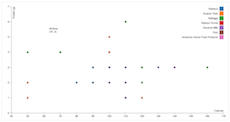
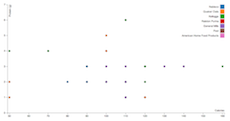
cleaning up index, fixing tooltip, making reusable, updating thumbnail

diff --git a/index.html b/index.html
@@ -3,6 +3,8 @@
 <meta charset="utf-8">
 
 <!-- Example based on http://bl.ocks.org/mbostock/3887118 -->
+<!-- Tooltip example from http://www.d3noob.org/2013/01/adding-tooltips-to-d3js-graph.html -->
+
 <style>
 body {
   font: 11px sans-serif;
@@ -19,49 +21,69 @@ body {
   stroke: #000;
 }
 
-#tooltip {
-      position: absolute;
-      left: 200px;
-      top: 94px;
-    }
+.tooltip {
+  position: absolute;
+  width: 200px;
+  height: 28px;
+  pointer-events: none;
+}
 </style>
 <body>
-<div id ="tooltip"></div>
 <script src="http://d3js.org/d3.v3.min.js"></script>
 
 <script>
-
 var margin = {top: 20, right: 20, bottom: 30, left: 40},
     width = 960 - margin.left - margin.right,
     height = 500 - margin.top - margin.bottom;
 
-var x = d3.scale.linear()
-    .range([0, width]);
+/* 
+ * value accessor - returns the value to encode for a given data object.
+ * scale - maps value to a visual display encoding, such as a pixel position.
+ * map function - maps from data value to display value
+ * axis - sets up axis
+ */ 
 
-var y = d3.scale.linear()
-    .range([height, 0]);
+// setup x 
+var xValue = function(d) { return d.Calories;}, // data -> value
+    xScale = d3.scale.linear().range([0, width]), // value -> display
+    xMap = function(d) { return xScale(xValue(d));}, // data -> display
+    xAxis = d3.svg.axis().scale(xScale).orient("bottom");
 
-var color = d3.scale.category10();
+// setup y
+var yValue = function(d) { return d["Protein (g)"];}, // data -> value
+    yScale = d3.scale.linear().range([height, 0]), // value -> display
+    yMap = function(d) { return yScale(yValue(d));}, // data -> display
+    yAxis = d3.svg.axis().scale(yScale).orient("left");
 
-var xAxis = d3.svg.axis()
-    .scale(x)
-    .orient("bottom");
+// setup fill color
+var cValue = function(d) { return d.Manufacturer;},
+    color = d3.scale.category10();
 
-var yAxis = d3.svg.axis()
-    .scale(y)
-    .orient("left");
-
+// add the graph canvas to the body of the webpage
 var svg = d3.select("body").append("svg")
     .attr("width", width + margin.left + margin.right)
     .attr("height", height + margin.top + margin.bottom)
   .append("g")
     .attr("transform", "translate(" + margin.left + "," + margin.top + ")");
 
-// load data
-d3.csv("cereal.csv", type, function(error, data) {
+// add the tooltip area to the webpage
+var tooltip = d3.select("body").append("div")
+    .attr("class", "tooltip")
+    .style("opacity", 0);
 
-  x.domain([d3.min(data, function(d) {return d.Calories;})-1, d3.max(data, function(d) { return d.Calories; })+1]).nice();
-  y.domain ([d3.min(data, function(d) {return d["Protein (g)"];})-1, d3.max(data, function(d) {return d["Protein (g)"];})+1]).nice();
+// load data
+d3.csv("cereal.csv", function(error, data) {
+
+  // change string (from CSV) into number format
+  data.forEach(function(d) {
+    d.Calories = +d.Calories;
+    d["Protein (g)"] = +d["Protein (g)"];
+//    console.log(d);
+  });
+
+  // don't want dots overlapping axis, so add in buffer to data domain
+  xScale.domain([d3.min(data, xValue)-1, d3.max(data, xValue)+1]);
+  yScale.domain([d3.min(data, yValue)-1, d3.max(data, yValue)+1]);
 
   // x-axis
   svg.append("g")
@@ -93,11 +115,23 @@ d3.csv("cereal.csv", type, function(error, data) {
     .enter().append("circle")
       .attr("class", "dot")
       .attr("r", 3.5)
-      .attr("cx", function(d) { return x(d.Calories); })
-      .attr("cy", function(d) { return y(d["Protein (g)"]); })
-      .style("fill", function(d) { return color(d.Manufacturer);}) 
-      .on("mouseover", hover)
-
+      .attr("cx", xMap)
+      .attr("cy", yMap)
+      .style("fill", function(d) { return color(cValue(d));}) 
+      .on("mouseover", function(d) {
+          tooltip.transition()
+               .duration(200)
+               .style("opacity", .9);
+          tooltip.html(d["Cereal Name"] + "<br/> (" + xValue(d) 
+	        + ", " + yValue(d) + ")")
+               .style("left", (d3.event.pageX + 5) + "px")
+               .style("top", (d3.event.pageY - 28) + "px");
+      })
+      .on("mouseout", function(d) {
+          tooltip.transition()
+               .duration(500)
+               .style("opacity", 0);
+      });
 
   // draw legend
   var legend = svg.selectAll(".legend")
@@ -106,35 +140,21 @@ d3.csv("cereal.csv", type, function(error, data) {
       .attr("class", "legend")
       .attr("transform", function(d, i) { return "translate(0," + i * 20 + ")"; });
 
+  // draw legend colored rectangles
   legend.append("rect")
       .attr("x", width - 18)
       .attr("width", 18)
       .attr("height", 18)
       .style("fill", color);
 
+  // draw legend text
   legend.append("text")
       .attr("x", width - 24)
       .attr("y", 9)
       .attr("dy", ".35em")
       .style("text-anchor", "end")
       .text(function(d) { return d;})
-
 });
-
-function hover(d) {
-// work on this not relying on #tooltip
-  d3.select("#tooltip")
-    .html("<br/><span style='color:black'>" + d["Cereal Name"] 
-    + "<br/> (" + d.Calories + ", " + d["Protein (g)"] + ")</span>");
-}
-
-function type(d) {
-  // change string into number format
-  d.Calories = +d.Calories;
-  d["Protein (g)"] = +d["Protein (g)"];
-//  console.log ("d.Calories = ", d.Calories, "d[Protein (g)] = ", d["Protein (g)"]);
-  return d;
-}
 
 </script>
 </body>
